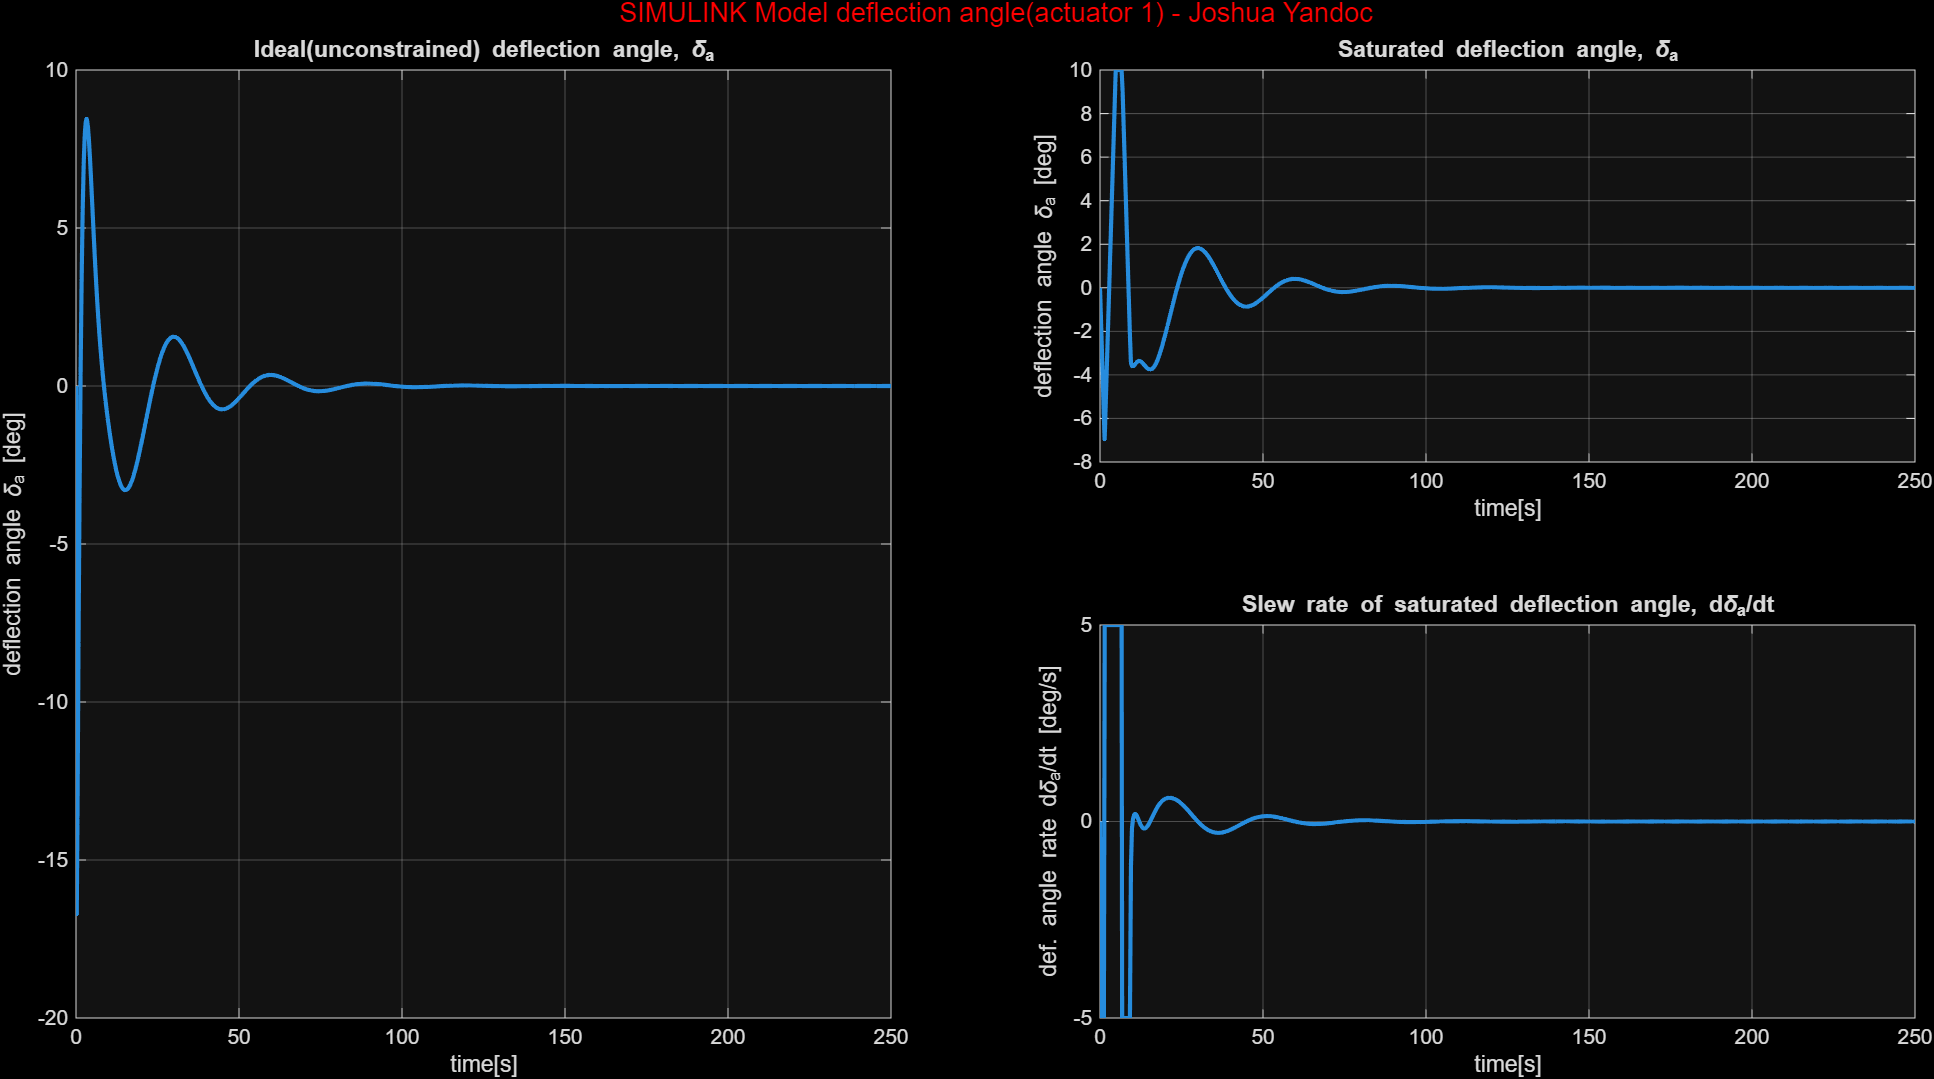
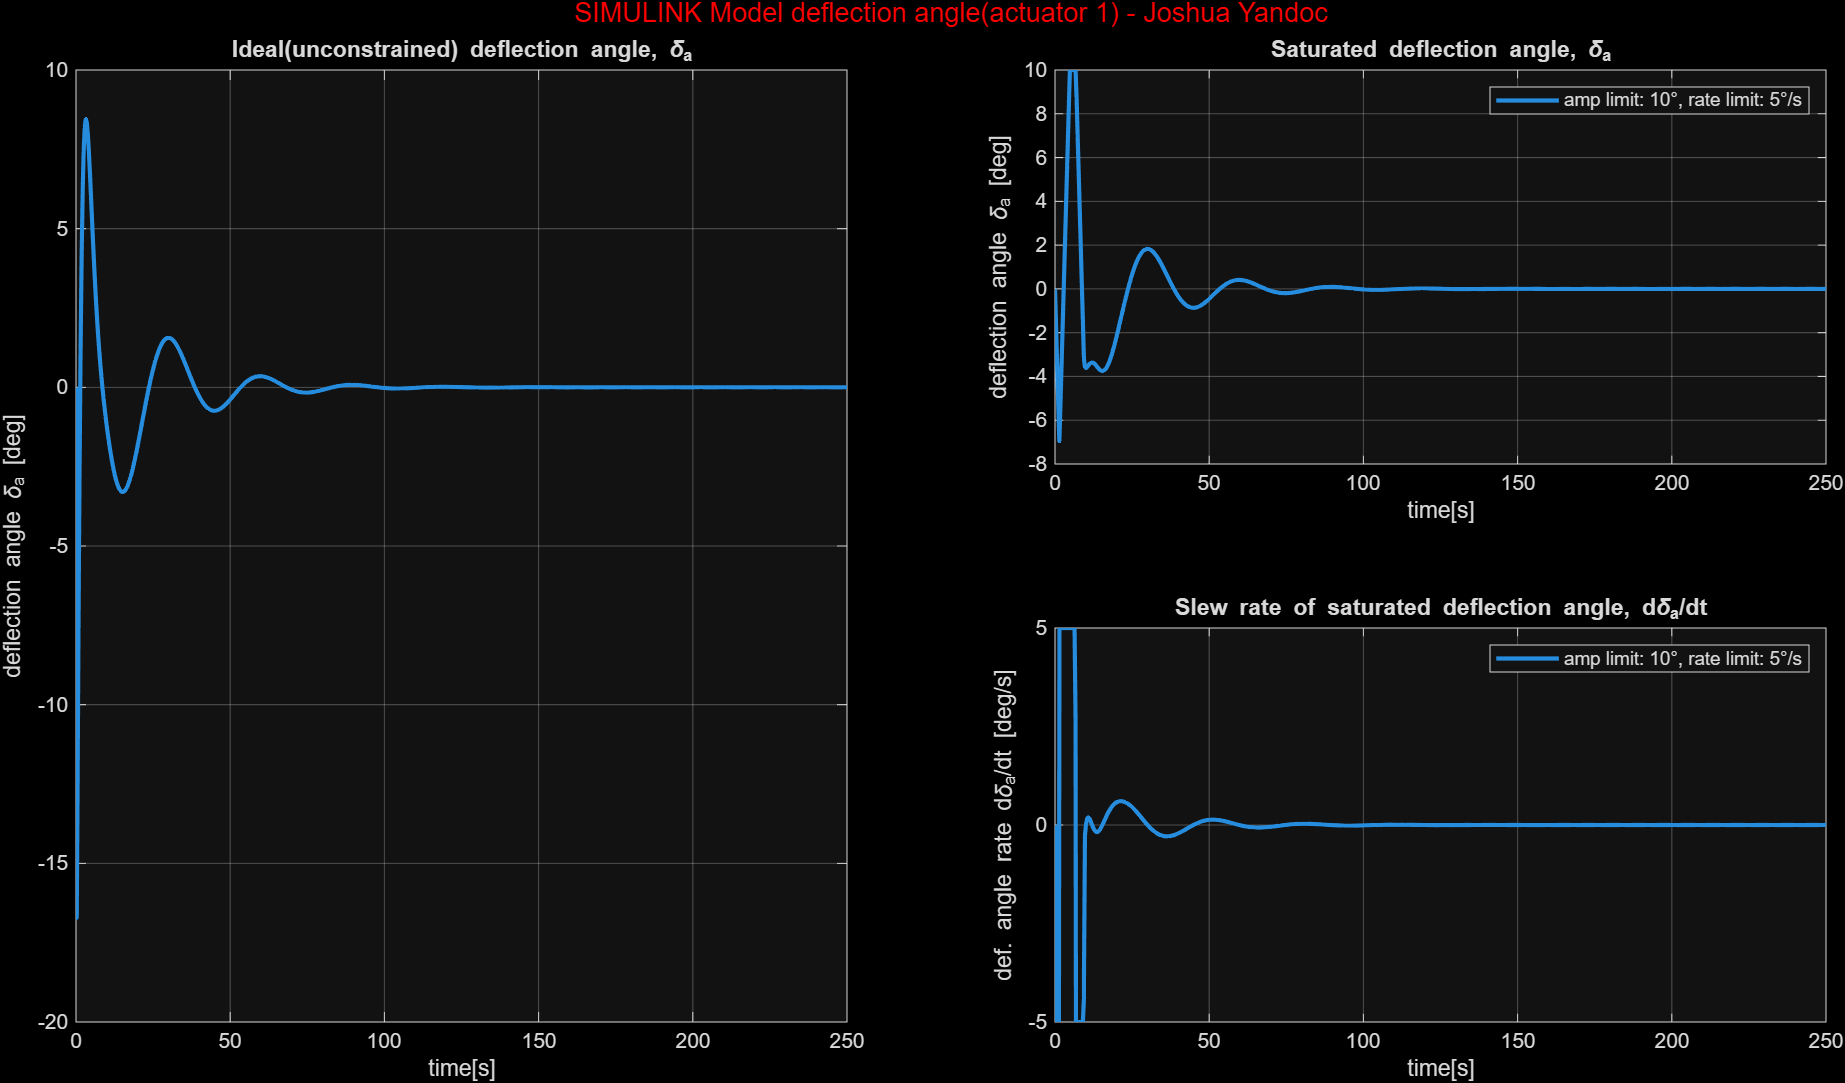
phase1-actuator-limits Updated code and plots
Minor update:
- Cleaned up the code by removing unused old code, and explicitly stating axes handles in all figure plotting as it was causing some bugs

- added a new plot that overlaid all the actuator limit deflection angle plots and some state variables on one figure for easier comparison

diff --git a/ILS_Lateral_Beam_Guidance_System_JoshuaYandoc.m b/ILS_Lateral_Beam_Guidance_System_JoshuaYandoc.m
@@ -158,6 +158,11 @@ ylabel('lateral displacement, Y_R [m]')
 model = 'Lateral_Beam_Guidance_System_Block_Diagram';
 % For use with actuator limits; -1 indicates 'ideal', unconstrained case
 USE_ACTUATOR_CASE = [-1 1 2 3];
+act_limits_str =... 
+    ["unconstrained amplitude and rate limit", ...
+    "amp limit: 10" + char(176) + ", rate limit: 5" + char(176) + "/s",...
+    "amp limit: 15" + char(176) + ", rate limit: 7.5" + char(176) + "/s",...
+    "amp limit: 20" + char(176) + ", rate limit: 10" + char(176) + "/s"];
 names = ["unconstrained case", "actuator 1", "actuator 2", "actuator 3"];
 % Load the SIMULINK model if not already loaded
 if ~bdIsLoaded(model), load_system(model); end
@@ -178,108 +183,127 @@ for actuator = 1:numel(USE_ACTUATOR_CASE)
         block_del_a_ideal = simout.del_a_ideal * (180/pi); % Convert to deg
     end
     
-    figure()
-    tiledlayout(2,2)
-    title(tiledlayout(2,2), 'SIMULINK Model States(' + ...
+    state_fig = figure();
+    t0 = tiledlayout(state_fig, 2,2);
+    title(t0, 'SIMULINK Model States(' + ...
         names(actuator) + ') - Joshua Yandoc', 'Color', [1 0 0])
     Title.FontSize = 18;
     Title.FontWeight = 'bold';
     
-    nexttile
+    nexttile(t0)
     plot(block_time, block_phi, 'linewidth', 2)
     grid on
+    legend(act_limits_str(actuator))
     title('SIMULINK Simulation of bank angle, \phi')
     xlabel('time[s]')
     ylabel('bank angle \phi [deg]')
     
-    nexttile
+    nexttile(t0)
     plot(block_time, block_p, 'linewidth', 2)
     grid on
+    legend(act_limits_str(actuator))
     title('SIMULINK Simulation of roll rate, d\phi/dt')
     xlabel('time[s]')
     ylabel('roll rate d\phi/dt [deg/s]')
     
-    nexttile
+    nexttile(t0)
     plot(block_time, block_psi, 'linewidth', 2)
     grid on
+    legend(act_limits_str(actuator))
     title('SIMULINK Simulation of heading angle, \psi')
     xlabel('time[s]')
     ylabel('heading angle \psi [deg]')
     
-    nexttile()
+    nexttile(t0)
     plot(block_time, block_Y_R, 'linewidth', 2)
     grid on
+    legend(act_limits_str(actuator))
     title('SIMULINK Simulation of Lateral Displacement, Y_R')
     xlabel('time[s]')
     ylabel('lateral displacement, Y_R [m]')
     
     
     % Saturation system comparison to ideal system
-    figure()
-    tiledlayout(2,2);
+    sat_fig = figure();
+    t1 = tiledlayout(sat_fig, 2,2);
 
-    title(tiledlayout(2,2), 'SIMULINK Model deflection angle(' + ...
+    title(t1, 'SIMULINK Model deflection angle(' + ...
         names(actuator) + ') - Joshua Yandoc', 'Color', [1 0 0])
     Title.FontSize = 18;
     Title.FontWeight = 'bold';
     
     % Plotting 'ideal' deflection angle (unsaturated, no slew rate)
-    ax1 = nexttile([2 1]);
-    plot(block_time, block_del_a_ideal, 'linewidth', 2)
+    ax1 = nexttile(t1, [2 1]);
+    plot(ax1, block_time, block_del_a_ideal, 'linewidth', 2)
     grid on
     title('Ideal(unconstrained) deflection angle, \delta_a')
     xlabel('time[s]')
     ylabel('deflection angle \delta_a [deg]')
     
     % Compare to system w actuator limits
-    ax12 = nexttile;
-    plot(block_time, block_del_a_sat, 'linewidth', 2)
+    ax12 = nexttile(t1);
+    plot(ax12, block_time, block_del_a_sat, 'linewidth', 2)
     grid on
+    legend(act_limits_str(actuator))
     title('Saturated deflection angle, \delta_a')
     xlabel('time[s]')
     ylabel('deflection angle \delta_a [deg]')
     
-    ax22 = nexttile;
-    plot(block_time, block_del_a_rate, 'linewidth', 2)
+    ax22 = nexttile(t1);
+    plot(ax22, block_time, block_del_a_rate, 'linewidth', 2)
     grid on
+    legend(act_limits_str(actuator))
     title('Slew rate of saturated deflection angle, d\delta_a/dt')
     xlabel('time[s]')
     ylabel('def. angle rate d\delta_a/dt [deg/s]')
 
+    % Store current states for current actuator for the purposes of
+    % plotting a comparison plot after
+    block_del_a_sat_AllCases(actuator, :) = block_del_a_sat';
+    block_phi_AllCases(actuator, :) = block_phi';
+    block_p_AllCases(actuator, :) = block_p';
+
 end
 
-%% After Phase 0
 
-% create array for the amplitutde limit and rate limit for each aileron
-% given in units of [deg] and [deg/s] - convert both to [rad] and [rad/s]
-% Amplitude_limit = [10, 15, 20];
-% Rate_limit = [5, 7.5, 10];
-% colors = {'r', 'g', 'k'};
-% 
-% figure()
-% tiledlayout(2,1)
-% nexttile
-% hold on
-% plot(tout, xout(2,:))
-% for actuator_number = 1:1:3
-%     yline(Amplitude_limit(actuator_number), colors{1, actuator_number})
-% end
-% hold off
-% ylim([-50 25])
-% title('Simulation of aileron deflection angle, \delta_a')
-% xlabel('time[s]')
-% ylabel('deflection angle \delta_a [deg]')
-% legend('\delta_a', 'actuator 1 - 10 deg', 'actuator 2 - 15 deg', 'actuator 3 - 20 deg')
-% 
-% nexttile
-% hold on
-% plot(tout, xout(3,:))
-% for actuator_number = 1:1:3
-%     yline(Rate_limit(actuator_number), colors{1, actuator_number})
-% end
-% hold off
-% ylim([-5, 15])
-% title('Simulation of aileron deflection angle rate, d\delta_a/dt')
-% xlabel('time[s]')
-% ylabel('deflection angle rate d\delta_a/dt [deg/s]')
-% legend('d\delta_a/dt', 'actuator 1 - 5 deg/s', 'actuator 2 - 7.5 deg/s', 'actuator 3 - 10 deg/s')
+compare_fig = figure();
+t2 = tiledlayout(compare_fig, 2,2);
+title(t2, 'Model comparisons, \delta_a - Joshua Yandoc', 'Color', [1 0 0])
+Title.FontSize = 18;
+Title.FontWeight = 'bold';
+
+ax1 = nexttile(t2, [2 1]);
+plot(ax1, block_time, block_del_a_ideal, 'linewidth', 2)
+grid on
+hold on
+for i = 2:1:4
+    plot(ax1, block_time, block_del_a_sat_AllCases(i,:))
+end
+title("Comparing deflection angle, \delta_a")
+legend(act_limits_str)
+xlabel('time[s]')
+ylabel('deflection angle \delta_a [deg]')
+
+ax12 = nexttile(t2);
+plot(ax12, block_time, block_phi_AllCases(1,:), 'linewidth', 2)
+grid on
+hold on
+for i = 2:1:4
+    plot(ax12, block_time, block_phi_AllCases(i,:))
+end
+title("Comparing bank angle, \phi")
+legend(act_limits_str)
+xlabel('time[s]')
+ylabel('bank angle \phi [deg]')
+
+ax22 = nexttile(t2);
+plot(ax22, block_time, block_p_AllCases(1,:), 'linewidth', 2)
+grid on
+hold on
+for i = 2:1:4
+    plot(ax22, block_time, block_p_AllCases(i,:))
+end
+title("Comparing roll rate, d\phi/dt")
+legend(act_limits_str)
+xlabel('time[s]')
+ylabel('roll rate d\phi/dt [deg/s]')
